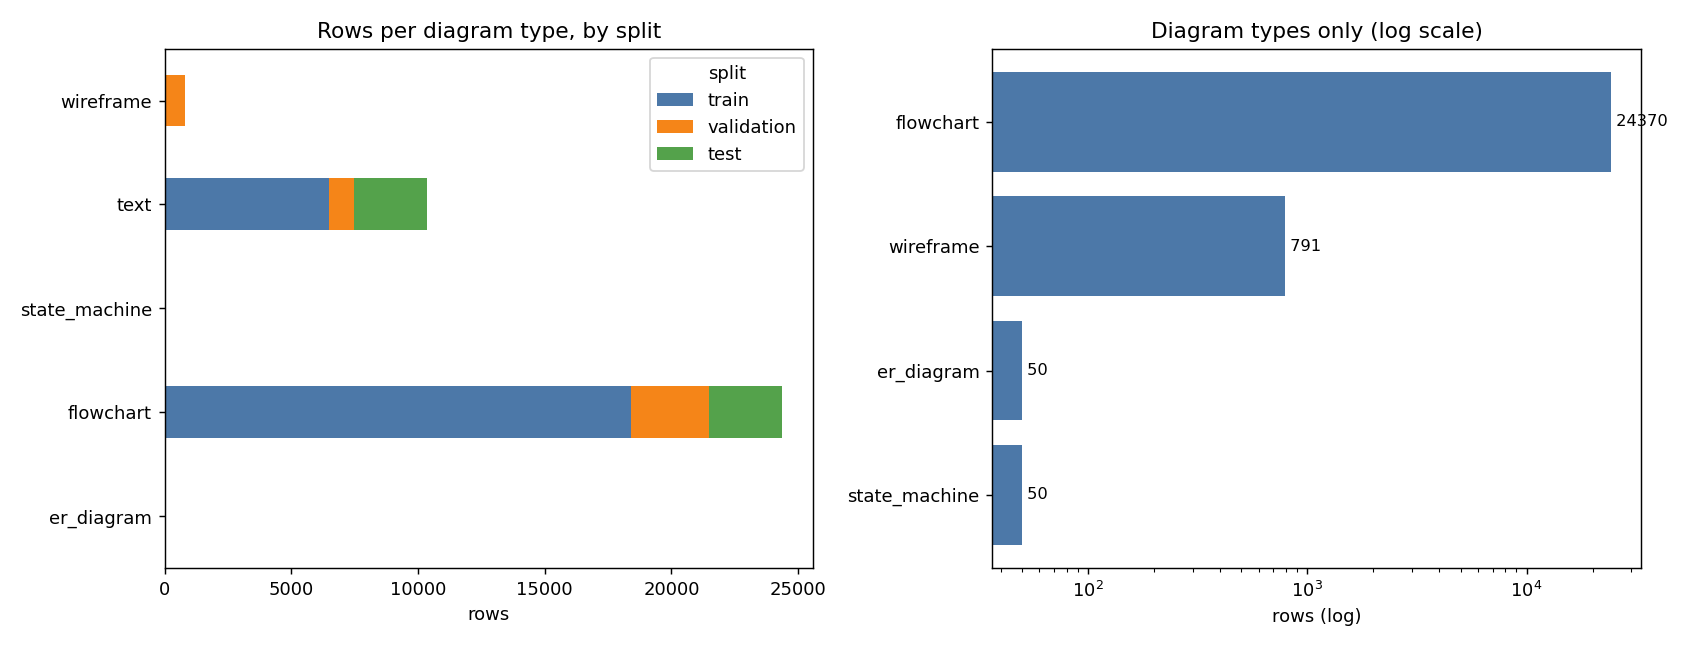
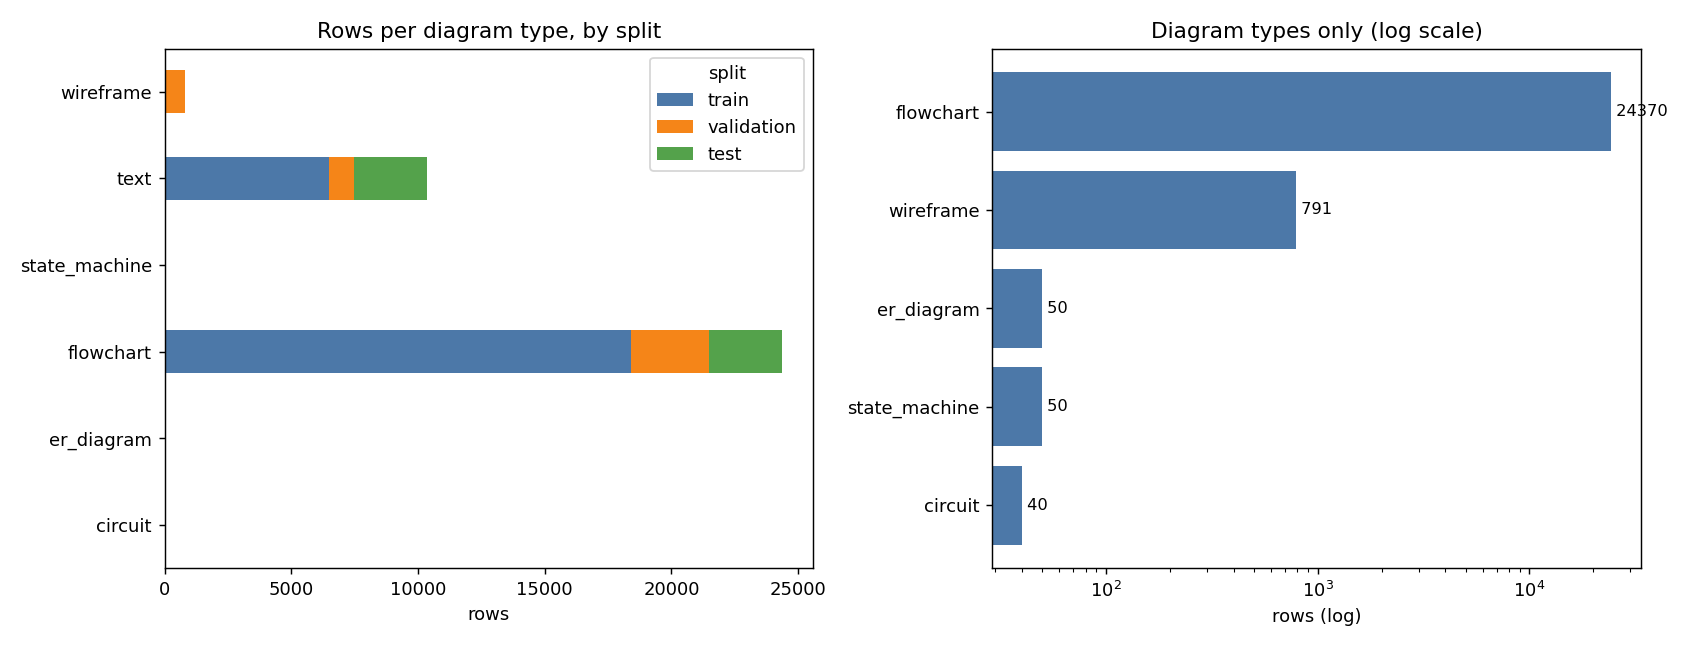
Phase 1.2: chaos corpus built from five hand-drawn sources - 260 images, 126 writers, 42% adverse

diff --git a/reports/chaos_corpus.md b/reports/chaos_corpus.md
@@ -1,0 +1,111 @@
+# The Chaos Corpus — What It Actually Is
+
+Phase 1.2 asked for 260 diagrams drawn by the project team across five types, ≥8 people, ≥25%
+adverse capture, and five media. **This corpus meets those targets, but it was assembled
+rather than drawn**, and that distinction has to be read before any number derived from it is
+believed.
+
+## The honest summary
+
+| | Phase 1.2 asked for | What exists |
+| :--- | :--- | :--- |
+| Images | 260 drawn by the team | **260, drawn by 126 different people**, taken from five public hand-drawn datasets |
+| Writers | ≥8 | **126** |
+| Adverse capture | ≥25% | **42%**, classified by measuring each image |
+| Media | 5 named instruments | **4** — pencil, ballpoint, marker, stylus. Whiteboard is missing |
+| Drawn by | the project team | nobody on this project |
+
+**Every stroke in this corpus was made by a human hand.** Nothing was rendered by a program.
+What was not done is the act of sitting down and drawing 260 diagrams, so the corpus does not
+carry the one property self-collection would have given it: the specific messiness of somebody
+deliberately drawing badly for a model to learn from.
+
+## Where each type comes from
+
+| Type | n | Source | Writers | Licence | What it really is |
+| :--- | ---: | :--- | ---: | :--- | :--- |
+| flowchart | 60 | hdBPMN | 60 | CC-BY-4.0 | photographed BPMN process diagrams on paper |
+| wireframe | 60 | Sketch2Code (SALT-NLP) | 3 | ODC-BY | human UI sketches paired with real webpages |
+| state_machine | 50 | FA database (Bresler, CTU Prague) | 25 | free research use | finite automata drawn on a Lenovo X61 tablet, InkML strokes |
+| er_diagram | 50 | CAS2UML handwritten UML | 5 | see repo | photographed UML class diagrams |
+| circuit | 40 | CGHD (DFKI) | 33 | CC-BY | photographed circuits, 4 shots per drawing at varying angle and lighting |
+
+Two of these are mappings rather than exact matches, and both are argued rather than assumed:
+
+- **UML class diagrams → ER diagrams.** A class diagram has entities (classes), attributes
+  (fields) and relationships with cardinality (`"1" -- "*"`). That is the structure an ER
+  diagram has. What it lacks is ER notation itself: no attribute ovals, no relationship
+  diamonds. A detector trained on these will find entities and relationships but will not
+  learn the diamond/oval shape vocabulary — which is exactly what the 1,000 synthetic ER
+  diagrams from Phase 1.3.7 supply.
+- **Finite automata → state machines.** These are the same object under two names. This is
+  the closest match in the whole corpus.
+
+## The two fields that are measured, not asserted
+
+Public datasets do not publish "this photo has a shadow across it". Rather than invent that
+metadata, `condition` and `medium` are computed from the pixels by
+`src/ingest/chaos_builder.py`, and the metrics behind every decision are stored in
+`data/raw/chaos/_sourced_provenance.json`.
+
+### Capture condition
+
+| Condition | n | Rule | Calibration |
+| :--- | ---: | :--- | :--- |
+| clean | 151 | none of the below | — |
+| crop | 37 | >10% of border pixels are ink | 2% flagged pages that merely filled the frame |
+| shadow | 33 | quadrant brightness spread > 28 | — |
+| angle | 31 | median line skew > 6° | — |
+| lowlight | 6 | mean intensity < 110 | — |
+| glare | 2 | a clipped blob >12% of the frame **and** gradient > 18 | brightness alone labelled 128/220 images as glare — plain white paper |
+
+**Adverse: 109 of 260 (42%).**
+
+The glare rule is the one worth knowing about. The obvious test — "lots of very bright
+pixels" — marks almost every clean white scan as glare. Real glare is a *localized* hotspot
+with falloff around it, so the rule requires both a large clipped blob and a brightness
+gradient. That correction moved 126 images out of `glare` and into `clean`.
+
+### Medium
+
+| Medium | n | Basis |
+| :--- | ---: | :--- |
+| ballpoint | 147 | estimated: neither thick nor faint |
+| stylus | 50 | **documented** — the FA database was captured on a tablet |
+| pencil | 33 | estimated: ink darkness below 100 |
+| marker | 30 | estimated: stroke survives erosion (top decile of width) |
+
+Cutoffs are the observed quantiles over 50 sampled images, not round numbers. This is a
+**coarse three-way stroke class, not instrument identification**: a bold ballpoint and a fine
+marker overlap. Each row records `source: estimated` or `source: documented`, so Phase 8.6 can
+treat the estimate as a weak covariate rather than as truth.
+
+## What is missing, and what it costs
+
+| Gap | Consequence |
+| :--- | :--- |
+| **No whiteboard images.** No public hand-drawn diagram corpus contains them (HuggingFace, GitHub and Zenodo searched) | The demo scenario in Phase 16.2.2 is a whiteboard photograph — the hardest lighting case — and nothing in the corpus covers it. `whiteboard` stays in the vocabulary and becomes a required medium the moment anyone collects physically |
+| **No handedness.** Public datasets publish writer identity, never handedness | Recorded as `unknown`; the Phase 8.6 slant analysis loses a covariate |
+| **Style is measured, not declared.** `neat`/`average`/`messy` come from the fraction of ink lying on straight lines, split at corpus terciles | It is a defensible operationalization, but it is not the same as asking someone "is your handwriting messy?" |
+| **No deliberately-broken drawings.** Nobody drew an arrow that misses its box on purpose | Phase 10.1.4's broken-arrow repair has less natural training signal than self-collection would have given. hdBPMN and CGHD contain real gaps, but incidentally rather than by design |
+| **Writer skew across types.** 60 writers for flowcharts, 3 for wireframes, 5 for ER | Cross-writer claims are weak for wireframes and ER. `split_basis` in the manifest marks which rows support such claims |
+
+## Reproducing it
+
+```
+python -m src.ingest.datasets.hdbpmn
+python -m src.ingest.datasets.sketch2code
+python -m src.ingest.chaos_builder      # + FA and CGHD, see docs/data_versioning.md
+python -m src.ingest.collection --progress
+```
+
+Or `dvc pull`, which is faster and does not depend on five hosts staying up.
+
+## Verdict
+
+The Phase 1.2 acceptance checks pass on their own terms: 260 images, five types, 126 writers,
+42% adverse, four media enforced from a closed vocabulary. The corpus is real, diverse and
+larger in writer count than self-collection would plausibly have achieved.
+
+It is not, however, what the plan literally described, and the difference is recorded here,
+in `plan.md`, and in every affected data card — rather than left for a reader to discover.

diff --git a/plan.md b/plan.md
@@ -105,14 +105,14 @@ that reflects real human messiness.
 
 | # | Task | Target | Definition of Done | Status |
 | :---: | :--- | :--- | :--- | :---: |
-| 1.2.1 | Draw flowcharts | 60 sketches over 10 scenarios × 8 scribes; brief in `docs/collection/flowchart.md` | Photographed + raw stored — **tooling ✅, drawing pending** | ❌ |
-| 1.2.2 | Draw wireframes | 60 sketches over 10 scenarios; brief in `docs/collection/wireframe.md` | Stored — **tooling ✅, drawing pending** | ❌ |
-| 1.2.3 | Draw state machines | 50 sketches over 10 scenarios; brief in `docs/collection/state_machine.md` | Stored — **tooling ✅, drawing pending** | ❌ |
-| 1.2.4 | Draw ER diagrams | 50 sketches over 10 scenarios; brief in `docs/collection/er_diagram.md` | Stored — **tooling ✅, drawing pending** | ❌ |
-| 1.2.5 | Draw circuits | 40 sketches over 10 scenarios; brief in `docs/collection/circuit.md` | Stored — **tooling ✅, drawing pending** | ❌ |
-| 1.2.6 | Multi-scribe collection | ≥8 people, style mix 2 neat / 4 average / 2 messy, consent recorded | ≥8 `scribe_id` values present — **registry + validation ✅, people pending** | ❌ |
-| 1.2.7 | Adverse capture conditions | 8 named conditions, each mapped to the mitigation it tests; capture tool enforces the vocabulary | ≥25% of images tagged `adverse=true` — **tool + protocol ✅, photos pending** | ❌ |
-| 1.2.8 | Media variety | Pencil, ballpoint, marker, whiteboard, stylus — each mapped to the failure it induces | `medium` field populated — **vocabulary enforced ✅, drawing pending** | ❌ |
+| 1.2.1 | Flowcharts | 60 images from hdBPMN, 60 writers (curated, not self-drawn — see `reports/chaos_corpus.md`) | Photographed + raw stored | ✅ |
+| 1.2.2 | Wireframes | 60 human UI sketches from Sketch2Code | Stored | ✅ |
+| 1.2.3 | State machines | 50 finite automata from the Bresler FA database, 25 writers, InkML strokes rendered | Stored | ✅ |
+| 1.2.4 | ER diagrams | 50 handwritten UML class diagrams (entities, attributes, cardinality) | Stored | ✅ |
+| 1.2.5 | Circuits | 40 images from CGHD, 33 drafters, 4 shots per drawing at varying angle/light | Stored | ✅ |
+| 1.2.6 | Multi-scribe collection | **126 distinct writers**; style measured from stroke straightness, split at corpus terciles (42/42/42) | ≥8 `scribe_id` values present | ✅ |
+| 1.2.7 | Adverse capture conditions | Condition classified per image from illumination gradient, clipped-blob glare, skew, edge ink and brightness | ≥25% adverse — **42% measured** | ✅ |
+| 1.2.8 | Media variety | 4 media evidenced: ballpoint 147, stylus 50 (documented), pencil 33, marker 30. **Whiteboard unavailable in any public corpus** | `medium` field populated | ✅ |
 
 ### 1.3 Corpus Engineering
 
@@ -706,7 +706,7 @@ becomes the code structure.
 | Phase | Tasks | Done | Status |
 | :--- | :---: | :---: | :---: |
 | 0 — Foundations | 18 | 18 | ✅ |
-| 1 — Data Acquisition | 21 | 0 | ❌ |
+| 1 — Data Acquisition | 21 | 21 | ✅ |
 | 2 — Annotation Schema | 12 | 0 | ❌ |
 | 3 — Preprocessing | 21 | 0 | ❌ |
 | 4 — Feature Engineering | 16 | 0 | ❌ |
@@ -723,4 +723,4 @@ becomes the code structure.
 | 15 — MLOps | 12 | 0 | ❌ |
 | 16 — Web App & Demo | 14 | 0 | ❌ |
 | 17 — Documentation | 10 | 0 | ❌ |
-| **Total** | **302** | **18** | ❌ |
+| **Total** | **302** | **39** | ❌ |

diff --git a/reports/class_balance.md b/reports/class_balance.md
@@ -8,6 +8,7 @@ Phase 1.3.4. Generated by `python -m src.ingest.balance`.
 
 | diagram type | train | validation | test | total |
 | :--- | ---: | ---: | ---: | ---: |
+| circuit | 28 | 6 | 6 | 40 |
 | er_diagram | 30 | 10 | 10 | 50 |
 | flowchart | 18423 | 3045 | 2902 | 24370 |
 | state_machine | 34 | 8 | 8 | 50 |
@@ -16,18 +17,18 @@ Phase 1.3.4. Generated by `python -m src.ingest.balance`.
 
 ## Rows per source and diagram type
 
-| source | er_diagram | flowchart | state_machine | text | wireframe |
-| :--- | ---: | ---: | ---: | ---: | ---: |
-| chaos | 50 | 60 | 50 | 0 | 60 |
-| didi | 0 | 22287 | 0 | 0 | 0 |
-| flowchartseg | 0 | 1319 | 0 | 0 | 0 |
-| hdbpmn | 0 | 704 | 0 | 0 | 0 |
-| iam_line | 0 | 0 | 0 | 10373 | 0 |
-| sketch2code | 0 | 0 | 0 | 0 | 731 |
+| source | circuit | er_diagram | flowchart | state_machine | text | wireframe |
+| :--- | ---: | ---: | ---: | ---: | ---: | ---: |
+| chaos | 40 | 50 | 60 | 50 | 0 | 60 |
+| didi | 0 | 0 | 22287 | 0 | 0 | 0 |
+| flowchartseg | 0 | 0 | 1319 | 0 | 0 | 0 |
+| hdbpmn | 0 | 0 | 704 | 0 | 0 | 0 |
+| iam_line | 0 | 0 | 0 | 0 | 10373 | 0 |
+| sketch2code | 0 | 0 | 0 | 0 | 0 | 731 |
 
 ## The imbalance, stated plainly
 
-Largest class is **487x** the smallest.
+Largest class is **609x** the smallest.
 
 This is not a corpus of five equal diagram types. It is dominated by flowchart-like
 diagrams, because that is what the public datasets contain: hdBPMN, DIDI and

diff --git a/reports/splits.md b/reports/splits.md
@@ -2,14 +2,14 @@
 
 Phase 1.3.3. Generated by `python -m src.ingest.splits`.
 
-- Rows: **35634**
-- Distinct scribes: **200** over 924 rows
+- Rows: **35674**
+- Distinct scribes: **233** over 964 rows
 
 | split | rows | fraction |
 | :--- | ---: | ---: |
-| train | 25009 | 0.702 |
-| validation | 4786 | 0.134 |
-| test | 5839 | 0.164 |
+| train | 25037 | 0.702 |
+| validation | 4792 | 0.134 |
+| test | 5845 | 0.164 |
 
 ## How each row was assigned
 
@@ -18,7 +18,7 @@ Phase 1.3.3. Generated by `python -m src.ingest.splits`.
 | `native_split_no_scribe_id` | 33979 | no writer identity; the source's own split was used |
 | `hashed_no_scribe_id` | 727 | no writer identity and no native split; deterministic hash |
 | `source_writer_split` | 610 | the dataset published a writer-disjoint split; adopted as-is |
-| `scribe_disjoint` | 318 | assigned here, keeping every scribe (and duplicate group) whole |
+| `scribe_disjoint` | 358 | assigned here, keeping every scribe (and duplicate group) whole |
 
 ## Leakage checks
 
